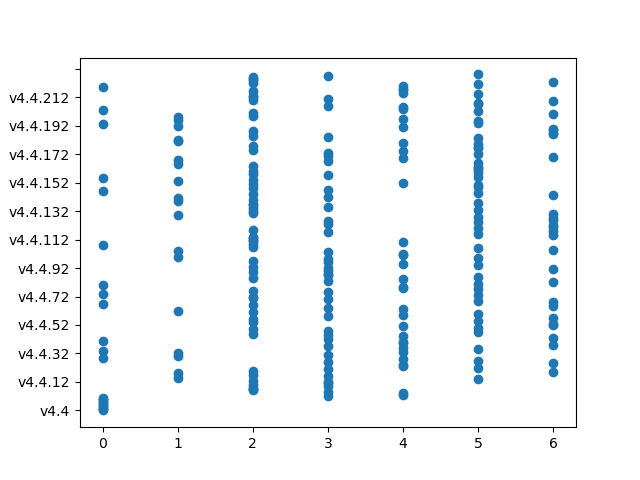
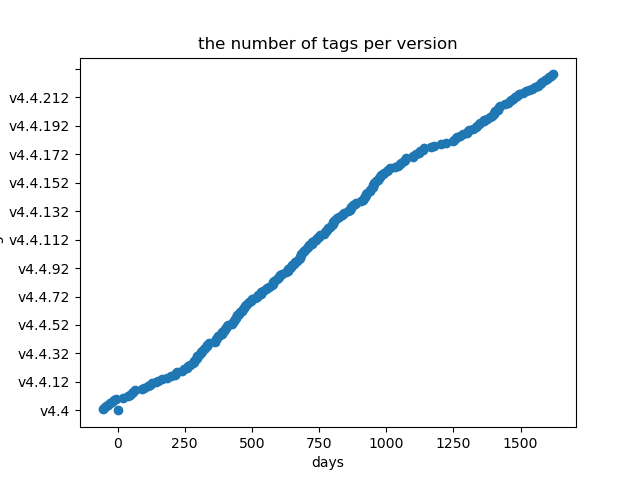
change the title of plot

diff --git a/320180939611-chenyuming/homework_kernel2/homework_kernel2.py b/320180939611-chenyuming/homework_kernel2/homework_kernel2.py
@@ -222,9 +222,9 @@ class Counter:
         x = (self.table['timestamp'] - self.table['timestamp'][0]) // secPerDay
         #plt.scatter(self.table['timestamp'].apply(lambda x:datetime.fromtimestamp(x).weekday()), self.table['tag'])
         plt.scatter(x, self.table['tag'])
-        plt.title("The hours over tags")
-        plt.xlabel("tags")
-        plt.ylabel("hours")
+        plt.title("the number of tags per version")
+        plt.xlabel("days")
+        plt.ylabel("tags")
         ymajor_locator = MultipleLocator(20)
         ay = plt.gca()
         ay.yaxis.set_major_locator(ymajor_locator)
@@ -242,7 +242,7 @@ class Counter:
 
 
 if __name__ == "__main__":
-    path = "linux-stable"
+    path = r"F:\LZU&DC\项目\课程项目\2020数据科学编程\groupwork18\FinalProject\extractor\linux-stable"
     counter = Counter(path, version='v4.4')
     print(counter.table)
     counter.table.to_csv('v4.4.csv',index=False)
